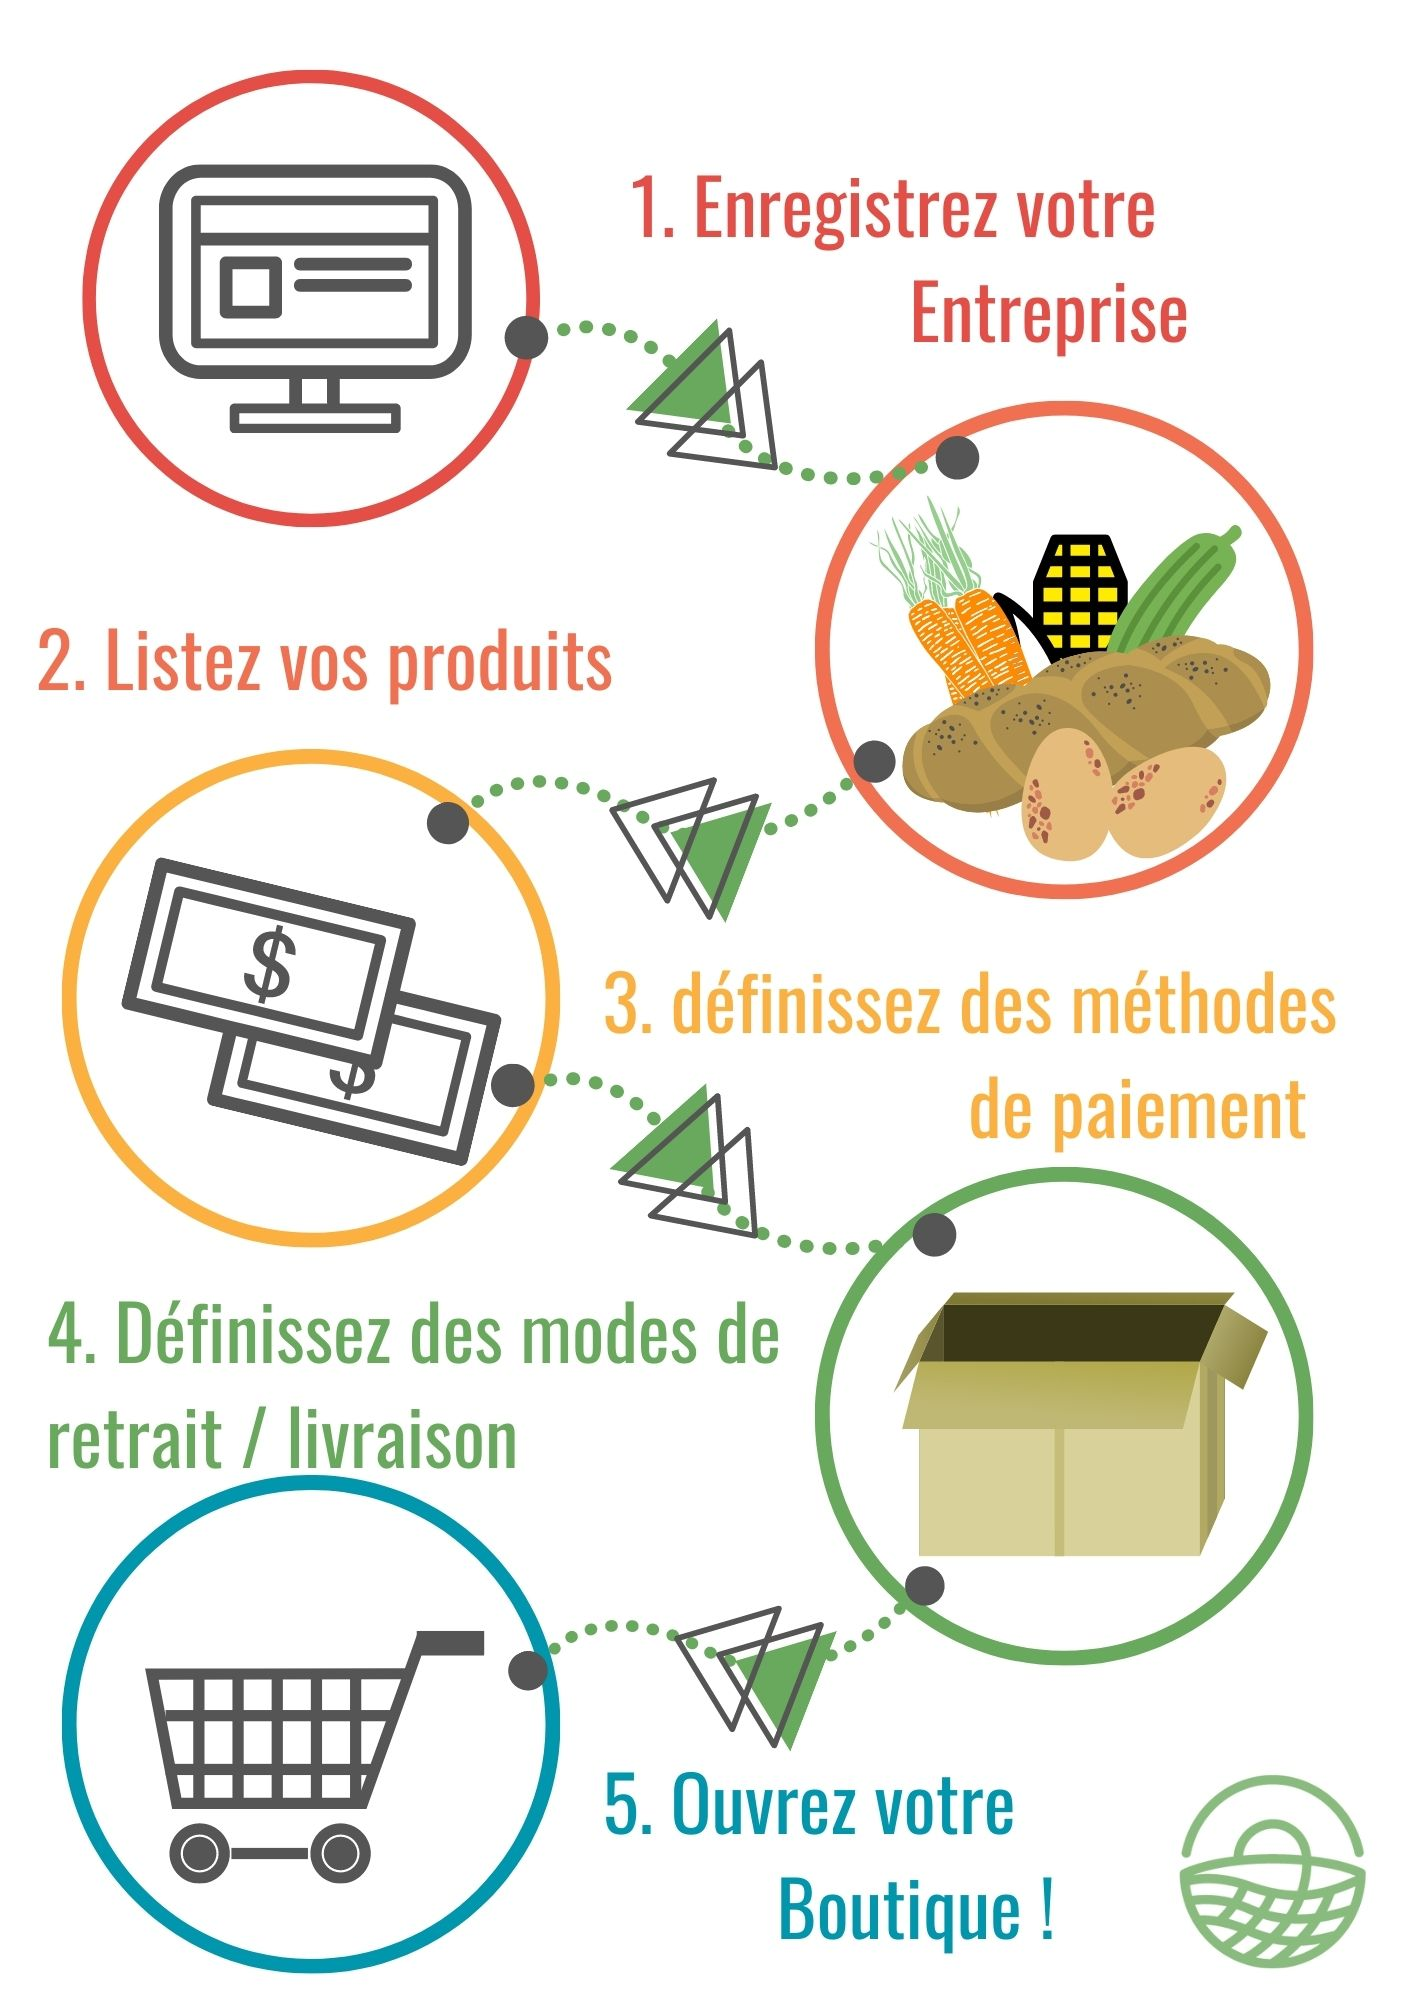
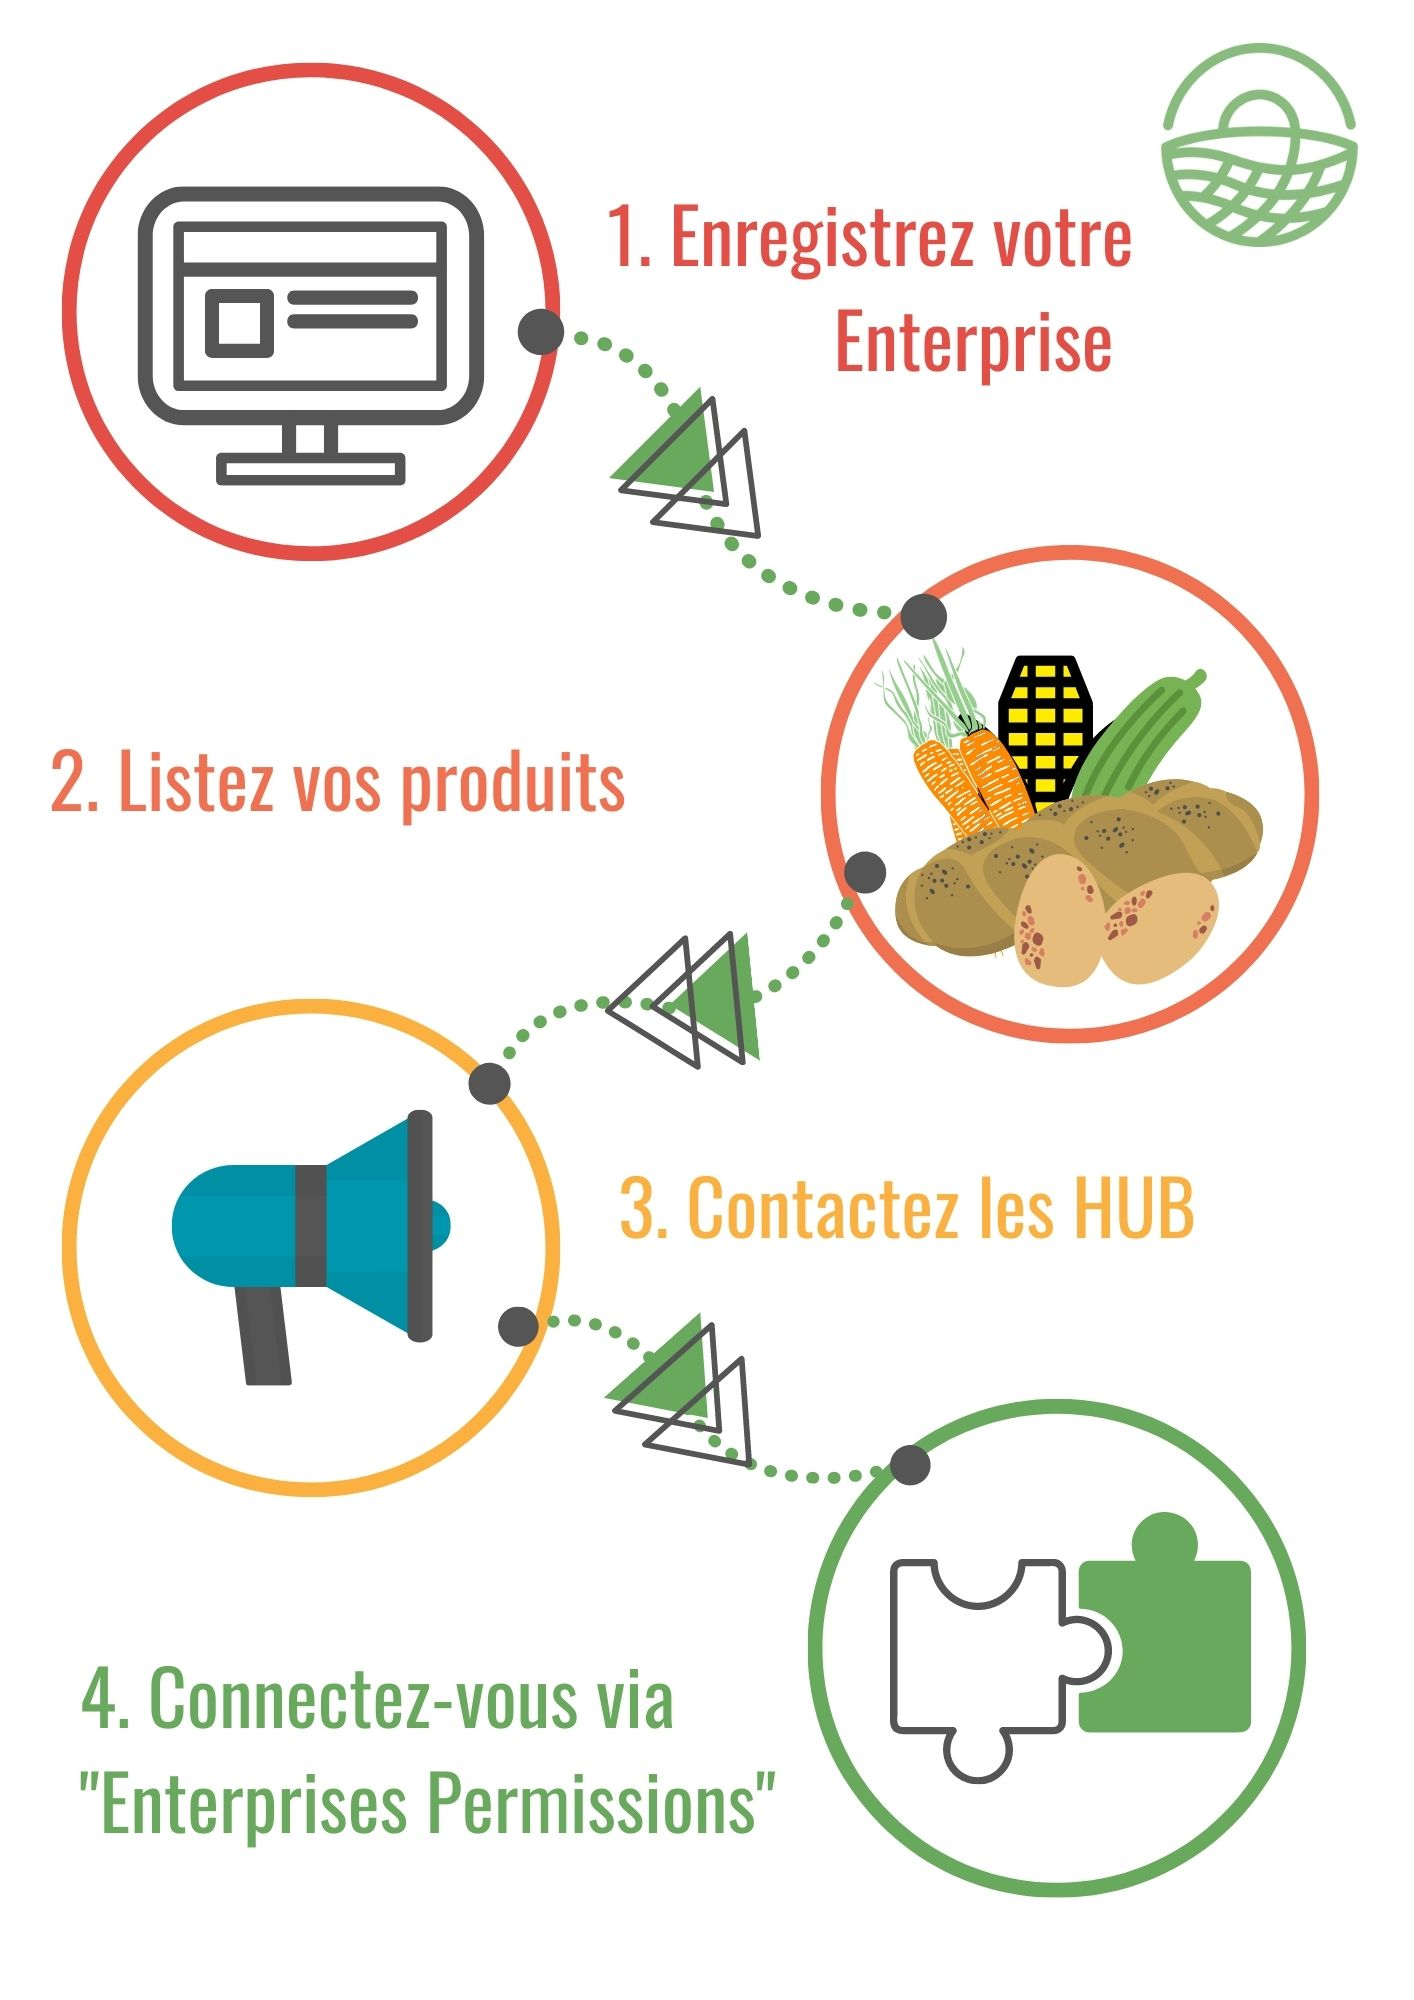
GitBook: [#335] No subject

diff --git a/quick-start-guides/multi-producers-shop-hub-quick-setup-guide.md b/quick-start-guides/multi-producers-shop-hub-quick-setup-guide.md
@@ -6,7 +6,7 @@ description: Toutes les étapes pour commencer votre utilisation d'OFN en tant q
 
 Pour commencer à utiliser OFN, suivez ces étapes:
 
-![](<../.gitbook/assets/Copy of Quick Set up in 5 steps draft (1).jpg>)
+![](<../.gitbook/assets/Copy of Quick Set up in 5 steps draft (1) (1).jpg>)
 
 1. Enregistrez votre entreprise\
    Si vous souhaitez vendre des produits que vous fabriquez ainsi que ceux d'autres personnes, choisissez les formules "Producteur" et "Hub". Si vous souhaitez uniquement vendre des produits fabriqués par d'autres personnes, choisissez les formules "Non-producteur" et "Hub". Complétez les paramètres de votre entreprise avec les détails de votre activité.

diff --git a/quick-start-guides/profile-only-quick-setup-guide.md b/quick-start-guides/profile-only-quick-setup-guide.md
@@ -6,7 +6,7 @@ description: Toutes les étapes pour commencer votre utilisation d'OFN en tant q
 
 Pour commencer à utiliser OFN, suivez ces étapes:
 
-![Four steps to start your OFN journey.](<../.gitbook/assets/Quick Set up in 5 steps profile.png>)
+![](<../.gitbook/assets/Copy of Quick Set up in 5 steps draft (1).jpg>)
 
 1. Enregistrez votre entreprise\
    Choisissez les formules "Producteur" et "Profil" et complétez vos paramètres d'entreprise avec les détails de votre boutique.
